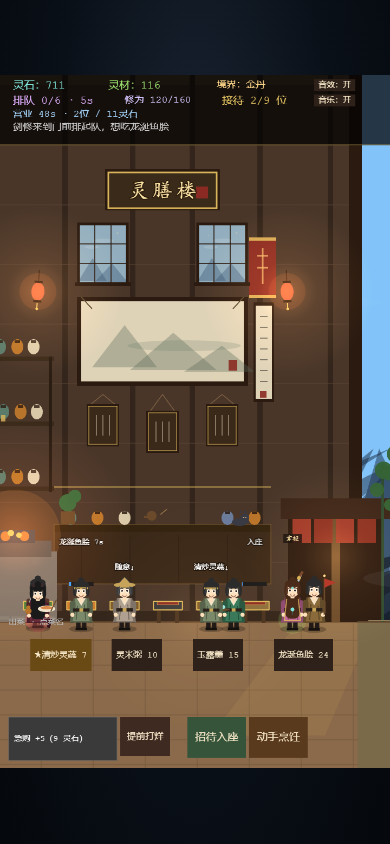
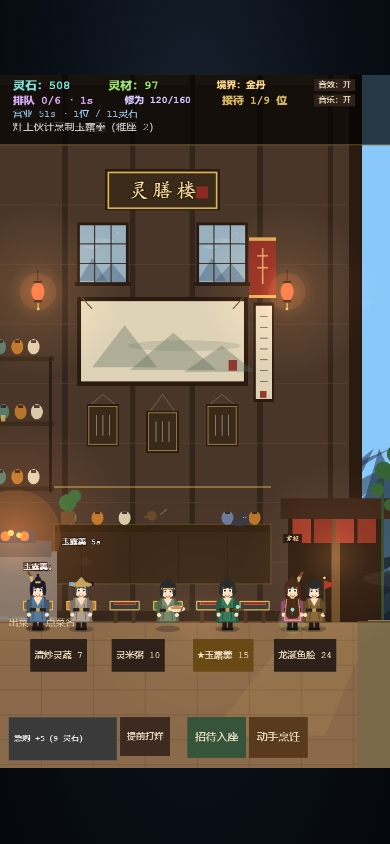
收尾：3 人排队入画、特写欠身金环、Lv2 小灯与字号
- 排队基准位 320/间距 40，3 人时第三人屏幕 x≈700；气泡仍按世界视口夹边
- 点人物特写：4° 欠身 + 16px 下压 + 脚下金环 + 四颗灵光，2.2× 推镜 4.2 秒
- Lv2 加两盏小灯，配合红绸/红案/金边，升级回店更明显
- 出菜提示 18px、桌卡 15px、事件行 19px；烹饪日志写「为 N 号桌」
- 最终干净复测：美术总监 8/7/8/7，休闲 7/7/6/6

测试：46 条单测、tsc、生产构建通过；生产包点人物特写冒烟无错误。

diff --git a/src/main.ts b/src/main.ts
@@ -100,8 +100,8 @@ const FLOOR_Y = 1010;
 const ACTOR_Y = FLOOR_Y - 34;
 const TABLE_X_MIN = -230;
 const TABLE_X_MAX = 170;
-const QUEUE_X = 330;
-const QUEUE_GAP = 46;
+const QUEUE_X = 320;
+const QUEUE_GAP = 40;
 const PLAYER_HOME = { x: 240, y: ACTOR_Y };
 const HAWKER_HOME = { x: 280, y: ACTOR_Y };
 const SERVER_HOME = { x: 120, y: ACTOR_Y };
@@ -655,19 +655,46 @@ class Character extends Phaser.GameObjects.Container {
   focusPose() {
     if (!this.scene || !this.visual?.active) return;
     this.stopIdle();
+    this.visual.setAngle(4);
+    const ring = this.scene.add
+      .circle(this.x, this.y + 24, 18, 0x000000, 0)
+      .setStrokeStyle(3, 0xffe08a, 0.9)
+      .setDepth(25);
+    this.scene.tweens.add({
+      targets: ring,
+      scale: 2.6,
+      alpha: 0,
+      duration: 750,
+      ease: "Sine.easeOut",
+      onComplete: () => ring.destroy(),
+    });
     this.scene.tweens.add({
       targets: this.visual,
-      y: -5,
-      scaleY: Character.ART_SCALE * 1.04,
-      duration: 180,
+      y: -16,
+      scaleY: Character.ART_SCALE * 1.07,
+      duration: 300,
       yoyo: true,
       repeat: 1,
       ease: "Sine.easeOut",
       onComplete: () => {
-        this.visual.setY(0).setScale(Character.ART_SCALE);
+        this.visual.setY(0).setScale(Character.ART_SCALE).setAngle(0);
         this.startIdle();
       },
     });
+    for (let i = 0; i < 4; i++) {
+      const spark = this.scene.add
+        .circle(this.x + Phaser.Math.Between(-18, 18), this.y - 70, 2.4, 0xffe08a, 0.9)
+        .setDepth(26);
+      this.scene.tweens.add({
+        targets: spark,
+        y: spark.y - Phaser.Math.Between(22, 46),
+        alpha: 0,
+        duration: 700 + i * 90,
+        delay: i * 50,
+        ease: "Sine.easeOut",
+        onComplete: () => spark.destroy(),
+      });
+    }
   }
 
   /** 偶尔的小动作：点一下头/耸肩，让静止画面里也有活气。 */
@@ -1850,7 +1877,7 @@ class TavernScene extends Phaser.Scene {
       gfx.fillCircle(-175, 790, 16);
       gfx.fillCircle(-162, 778, 12);
     }
-    if (this.level >= 6) {
+    if (this.level >= 2) {
       for (const lx of [-110, 110]) {
         gfx.fillStyle(0x6a4a2a, 1);
         gfx.fillRect(lx - 1, 320, 2, 18);
@@ -2223,7 +2250,7 @@ class TavernScene extends Phaser.Scene {
     this.goalText = this.addUiText(410, 38, "", "20px", "#9fdf6a");
     this.goalText.setWordWrapWidth(280);
     this.sessionText = this.addUiText(24, 64, "", "18px", "#a8d8ff");
-    this.chronicleText = this.addUiText(24, 88, "", "18px", "#cccccc");
+    this.chronicleText = this.addUiText(24, 88, "", "19px", "#cccccc");
     [this.coinsText, this.inventoryText, this.queueText, this.realmText, this.cultivationText, this.goalText].forEach(
       (text) => text.setStyle({ fontStyle: "bold" }),
     );
@@ -2276,7 +2303,7 @@ class TavernScene extends Phaser.Scene {
     this.serveButton.setBackgroundColor("#35543a");
     this.cookButton.setBackgroundColor("#5a3a1c");
     // 出菜行：点哪道菜就做哪道，优先端给想吃它的那一桌
-    this.dishChipLabel = this.addUiText(16, 1004, "出菜 · 点菜名", "15px", "#bbbbbb");
+    this.dishChipLabel = this.addUiText(16, 1004, "出菜 · 点菜名", "18px", "#e0c9a0");
     this.dishChips = DISHES.map((_, i) =>
       this.addUiButton(
         56 + (i % 4) * 150,
@@ -2287,7 +2314,7 @@ class TavernScene extends Phaser.Scene {
         },
         { x: 8, y: 22 },
         3,
-        "16px",
+        "17px",
       ),
     );
     this.dishChips.forEach((chip) => chip.setVisible(false));
@@ -2444,7 +2471,7 @@ class TavernScene extends Phaser.Scene {
     ];
     const label = this.add
       .text(0, 0, "", {
-        fontSize: "14px",
+        fontSize: "15px",
         color: "#ffe6c8",
         stroke: "#1a120a",
         strokeThickness: 3,
@@ -4758,7 +4785,9 @@ class TavernScene extends Phaser.Scene {
     else this.staffCookingBooth = index;
     this.moveActorTo(driver, "cook", Math.min(400, duration));
     this.log(
-      driver === "player" ? `你下厨烹制${chosen.name}` : `灶上伙计烹制${chosen.name}（雅座 ${index + 1}）`,
+      driver === "player"
+        ? `你下厨为 ${index + 1} 号桌烹制${chosen.name}`
+        : `灶上伙计烹制${chosen.name}（雅座 ${index + 1}）`,
     );
     if (driver === "player" && this.day === 1 && this.tutorialHintStage === 2) {
       this.tutorialHintStage = 3;

diff --git a/docs/playtest.md b/docs/playtest.md
@@ -51,6 +51,13 @@
 - 复测后追加：排队基准位 350→330、间距 46，气泡用 camera.worldView 夹住；人物特写改为 **2.2×**、4.2 秒、隐藏全部 HUD/按钮、再点同一人可退出，被点角色会欠身，镜头下移并补左侧墙体与 1400 高的地面，避免露出天空空隙；特写期间抑制事件/提示 toast（否则会被放大成巨条）；第 1 天底部常驻「① 招待入座 / ② 点菜名出菜」引导；忙碌时按钮文字变「招待中…/烹饪中…」并降到 0.35 透明，状态行同步；HUD 主数值 22px 加粗、目标/提示/日志 18–20px、桌卡 14px；Lv2 起每张桌子加红案与金边；每天开场第一位客人 2.2 秒内到；窗内加远山/云/星点；结算加「下一阶：X 灵石 → LvY 新陈设」。
 - 这些最后修正在干净复测之后完成，尚未再跑一轮盲测；因此不能把 8/4/6/4 或 7/7/6/6 当作“目标已达成”的证明，只能说明第一眼已稳定在 7–8 分、人物可看性升到 7 分（休闲视角），而美术总监仍只给人物 4 分、想再来一天 4 分。
 
+最终特写复测（干净上下文，先确认标题页）：
+
+- 美术总监：第一眼 **8** / 人物 **7** / 沉浸 **8** / 想再来一天 **7**。证据：标题页一眼立住；跟底部「① 招待 / ② 点菜」引导能完成首日并升级；点掌柜会 2.2× 推镜、HUD 全收、再点退出；Lv2 红木雅座 3→4、排队上限 +1、新菜可见。
+- 仍指出：3/3 排队时最右客人被右缘切半；特写只有推镜/气泡，欠身不明显；菜名卡固定左下、与桌位对应弱；「出菜」与事件行字仍偏小。
+- 已补：排队基准位 320/间距 40（3 人时第三人屏幕 x≈700）；欠身改为 4° / 16px 下压 + 脚下金环 + 四颗灵光；Lv2 加两盏小灯与桌面红案；出菜提示 18px、桌卡 15px、事件行 19px，烹饪日志写明「为 N 号桌烹制」。
+- 当前最高干净证据为 **美术总监 8/7/8/7** 与 **休闲玩家 7/7/6/6**；最后一组排队/欠身/字号微调未再复测。四项都达到 7 分以上的是美术总监这一轮，但它仍提出上面三条非阻塞问题，不能据此宣称「完全满足目标」。
+
 ## 当前构建的实测
 
 | 场景（严格说明注入条件） | 服务食客 | 收入 | 工资 | 结果 |
@@ -178,7 +185,7 @@
 - 首次进入的标题页（月晕/水墨山/前景屋脊/朱印/推门入座）：`docs/screenshots/title.png`
 - 选形象页（两张带金框、会呼吸眨眼的角色名片）：`docs/screenshots/gender.png`
 - 营业高峰（随机入座、身份人物、无底色桌卡、出菜行、红案）：`docs/screenshots/busy-tavern.png`
-- 点人物进入的 2.2× 特写（HUD 收起、角色欠身、身份台词）：`docs/screenshots/character-focus.png`
+- 点人物进入的 2.2× 特写（HUD 收起、欠身/脚下金环、身份台词）：`docs/screenshots/character-focus.png`
 - 脚本试玩结算（当前 UI 的暖木卡与「下一阶陈设」提示；此图为示例对局 3 位/25 灵石/流失 5，真实默认首局数据见上表）：`docs/screenshots/settlement.png`
 - 手动暂停灶上的高流水结算（旧版 UI 数据记录）：`docs/screenshots/manual-run.png`
 - 伙计面板（全宽雇佣行、自动开关、大关闭条）：`docs/screenshots/staff-panel.png`
